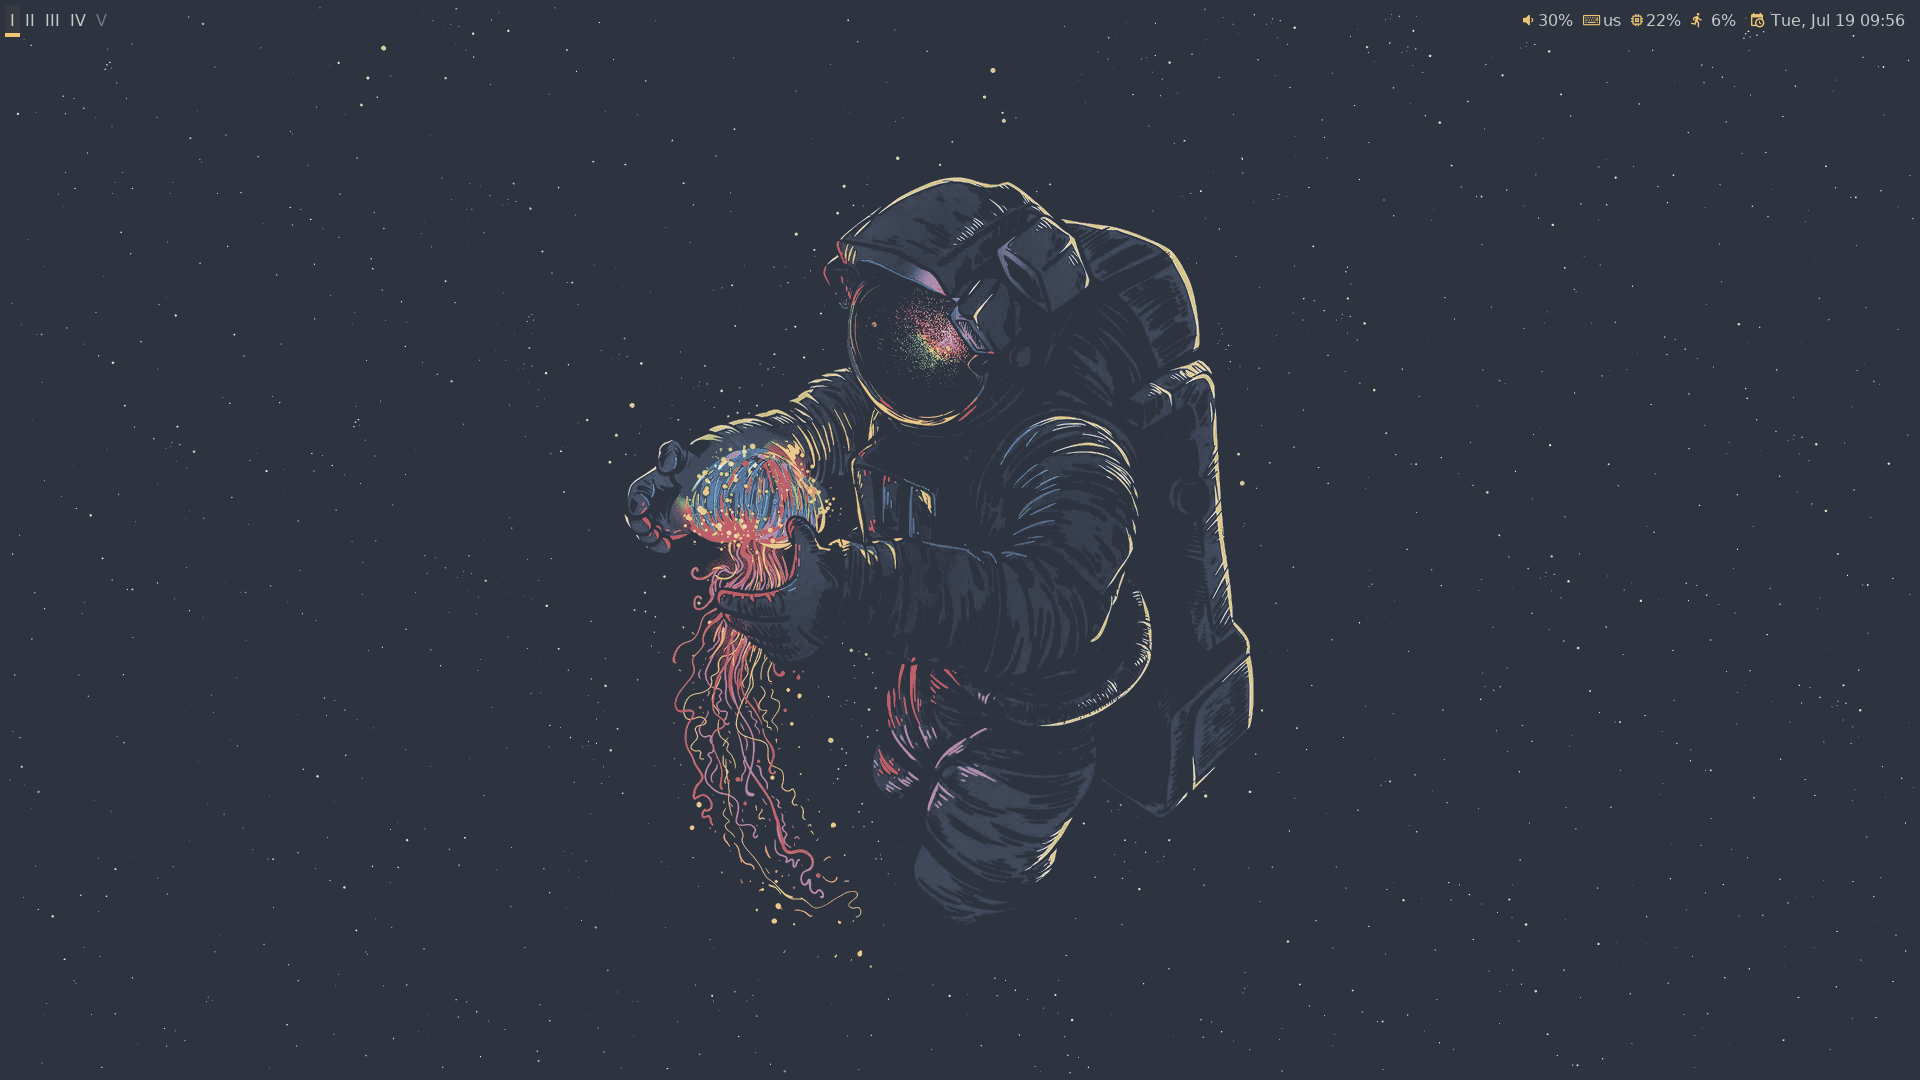
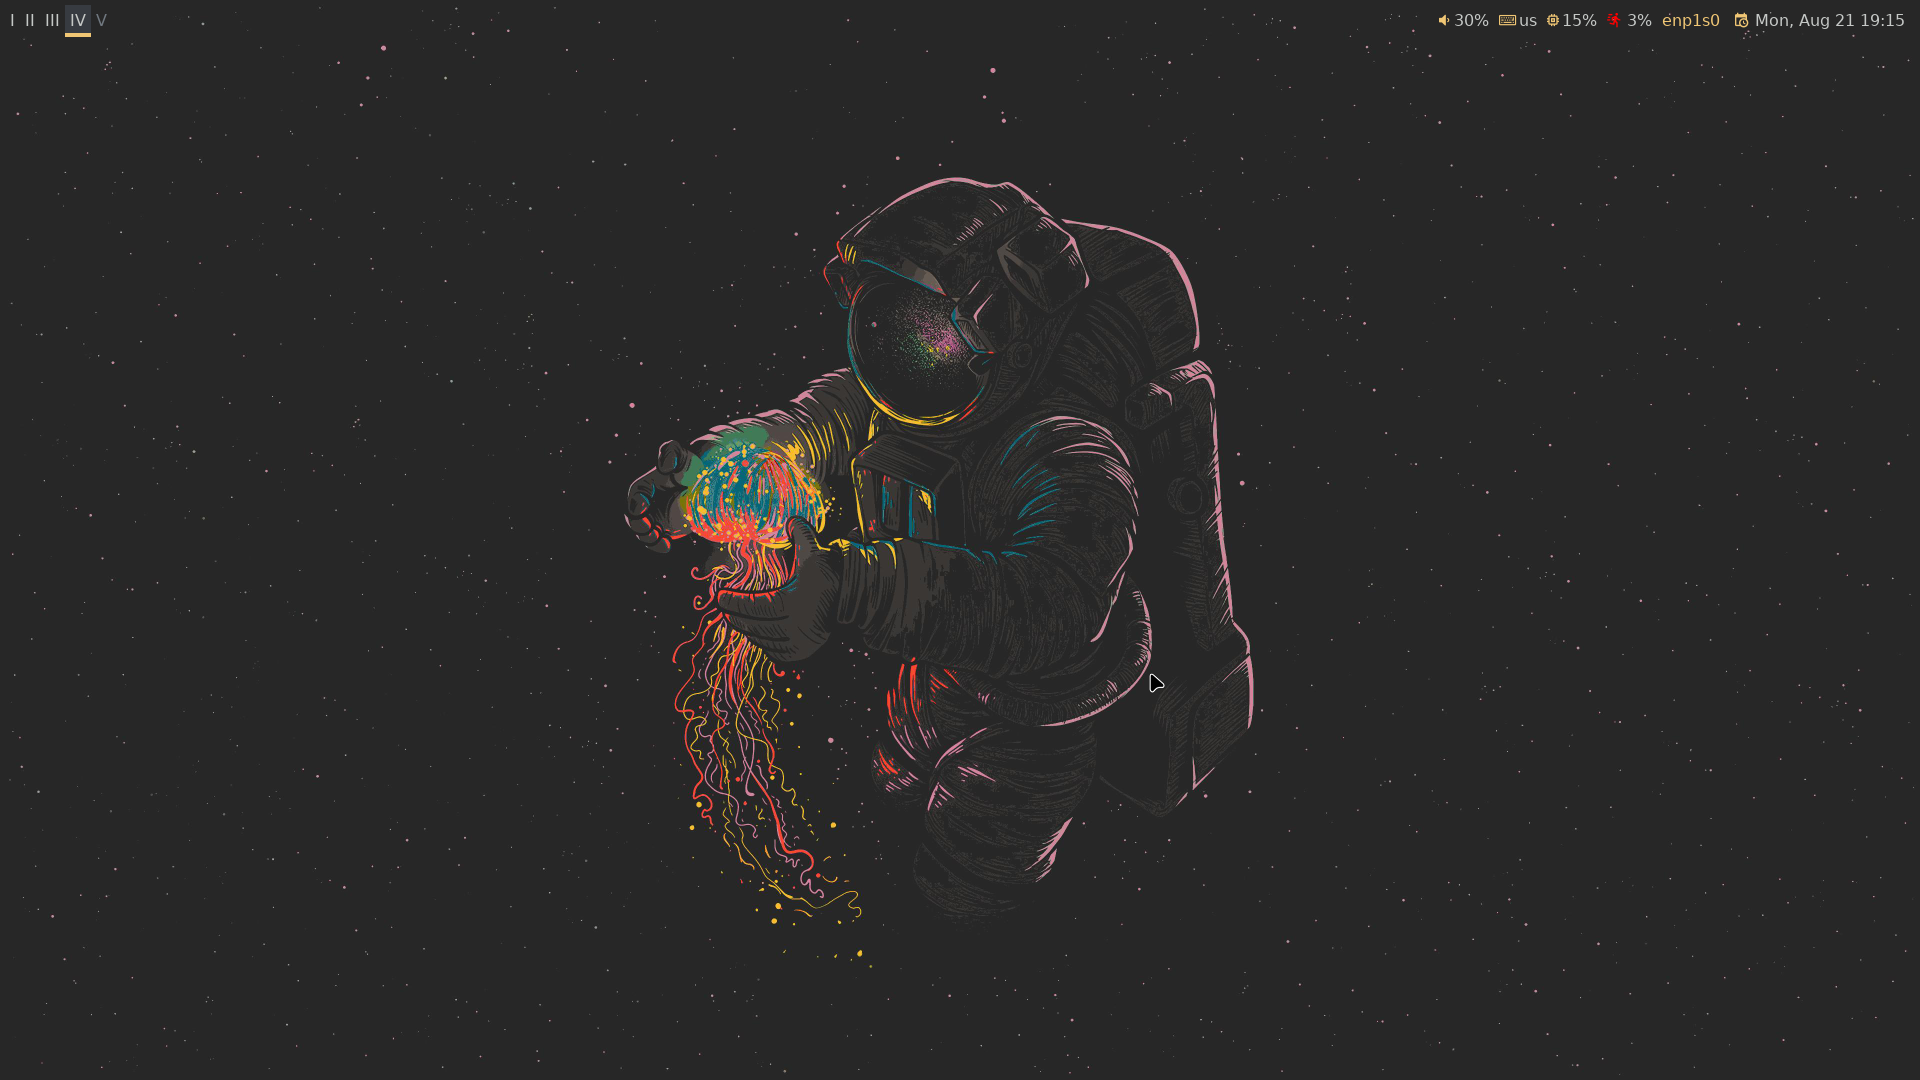
gruvbox theme

Changed region(s): [[0.3125, 0.1528, 0.6562, 0.8556], [0.75, 0.0, 1.0, 0.0306], [0.0, 0.0, 0.0312, 0.0306]]

diff --git a/README.md b/README.md
@@ -1,6 +1,6 @@
 <h1 align="center">Polar Space</h1>
 
-Polar Space is a minimialistic Linux setup for Debian using the Nord Polar Night Theme. This setup uses BSPWM as the tilting window manager.
+Polar Space is a minimialistic Linux setup for Debian using the Gruvbox Theme. This setup uses BSPWM as the tilting window manager.
 
 ## Screenshots of the Desktop
 ### 1) Home Screen
